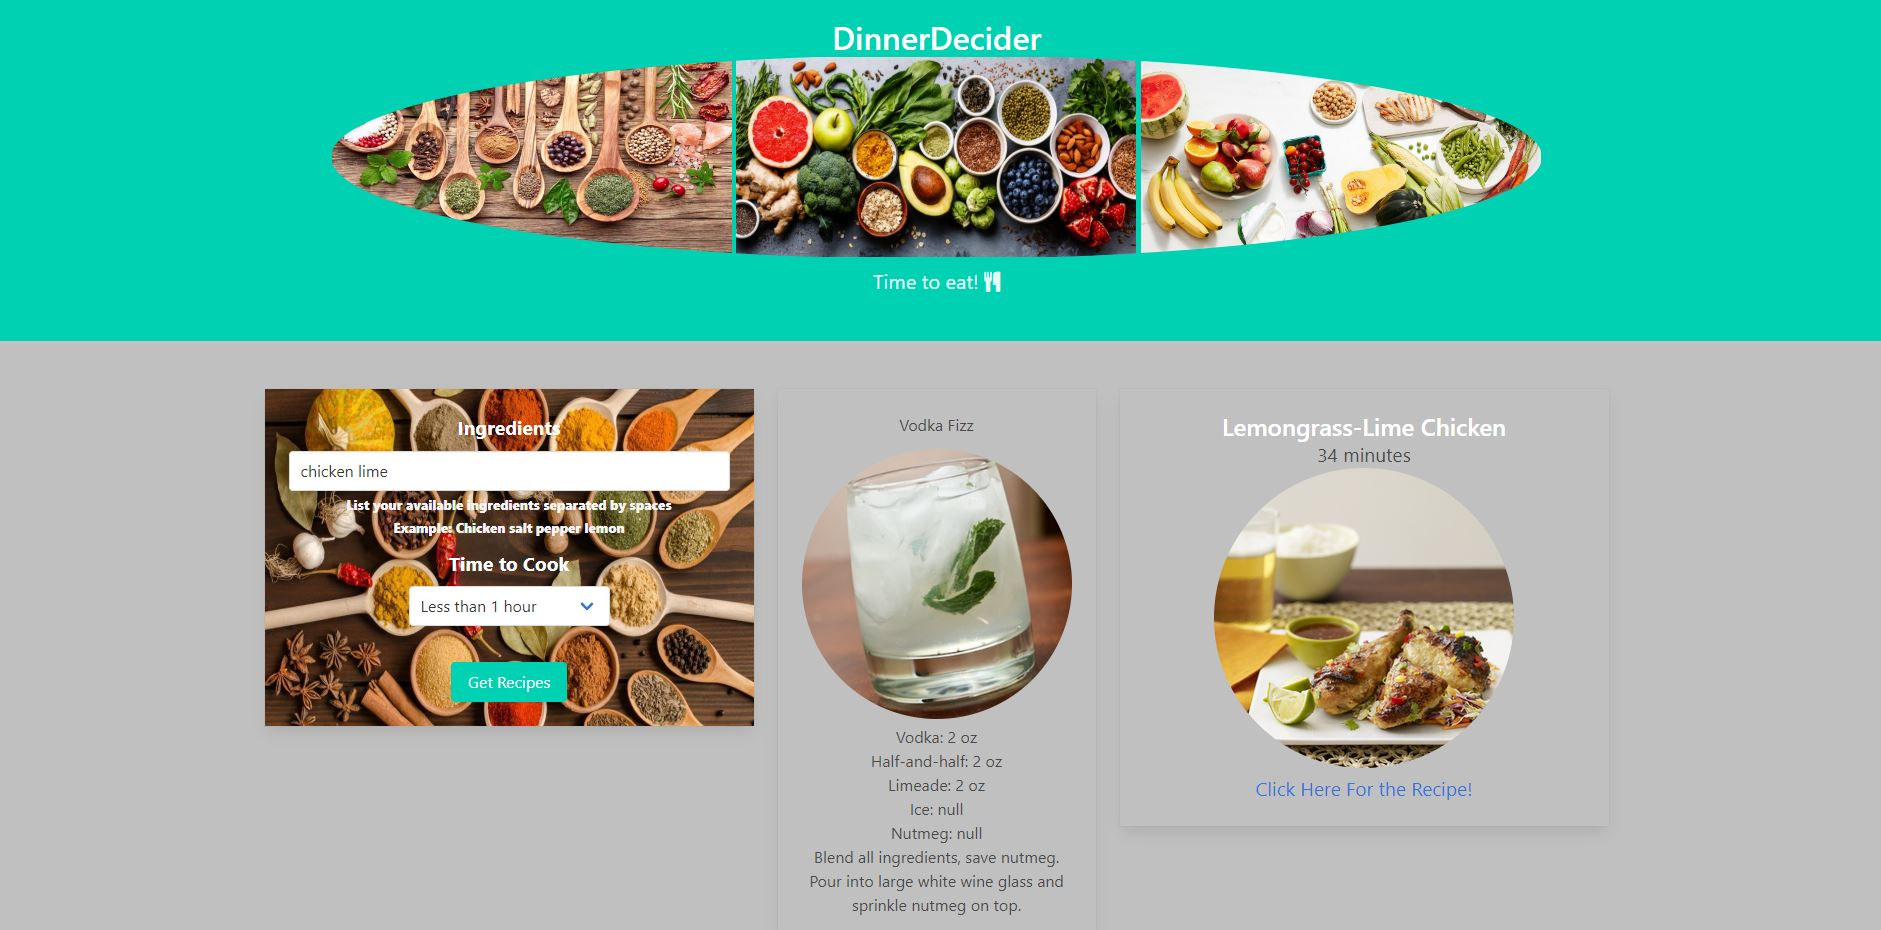
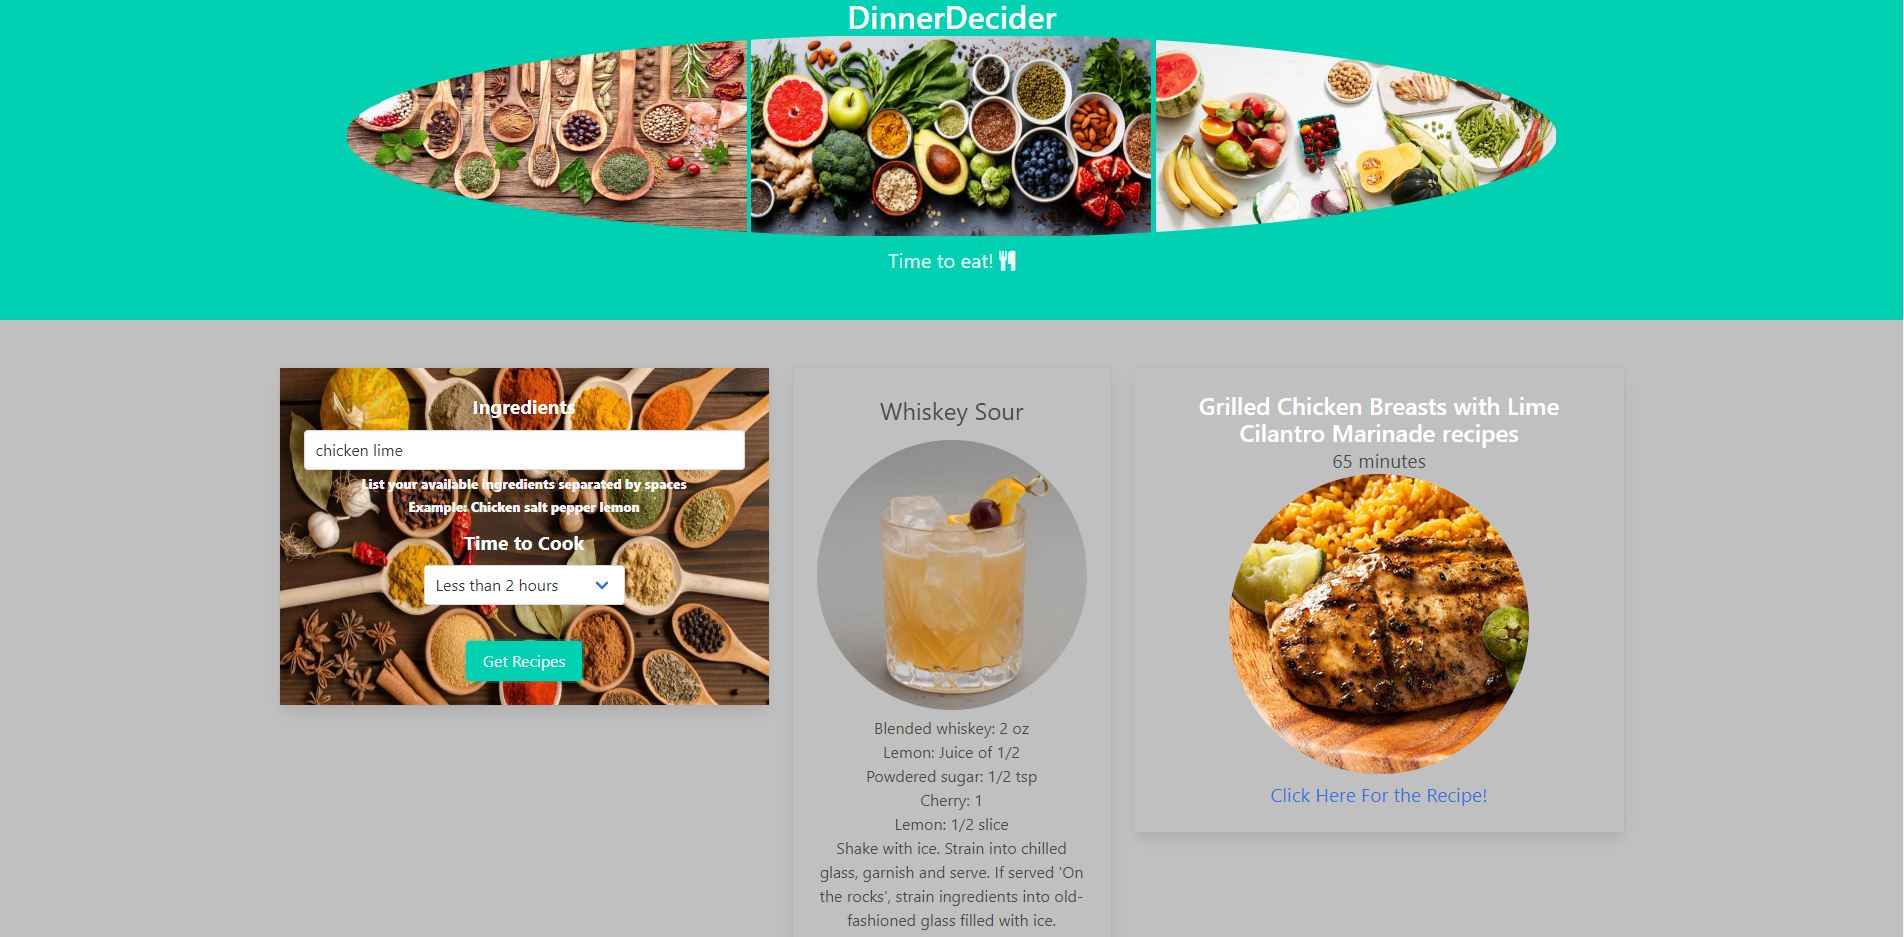
uodated readme

diff --git a/README.md b/README.md
@@ -1,8 +1,24 @@
 # DinnerDecider
 User story:
-A website that provides a user with a list of possible cooking recipies based on their inputs.
+Our application allows users to input different types of ingredients, as well as a time allotment, into a search bar. The website then outputs a recipe based on the search terms. Additionally, the user can view a random drink via the user interface.
 <img src="assets/project_snips/snip_main.jpg">
 
 Here is a deployed website that has the ability to input ingredients that the user has, or a craving the user might have, and output a recipe based on those, as well as time allotted. 
 
-This website was build using Bulma HTML framework, and JQuery Javascript library
+This website was build using Bulma HTML framework, and JQuery Javascript library.
+
+Below are some of the ways we utilized items to our advantage:
+
+<img src="assets\project_snips\header_snip2.jpg">
+
+In the header, by building an image, and giving it a radius, the curved oval look was achieved.
+
+<img src="assets\project_snips\header_snip.jpg">
+
+The API call to pull the beverage did not put the drink ingredients into an array, or object. It returned the info as multiple objects as "strIngredient" and a numerical value, as seen below.
+
+<img src="assets/project_snips/ing_snip.jpg">
+
+The solution we came up with was to utilize a "for" loop, and an exit parameter when it landed on a "null" return.
+
+<img src="assets/project_snips/forloop.jpg">
